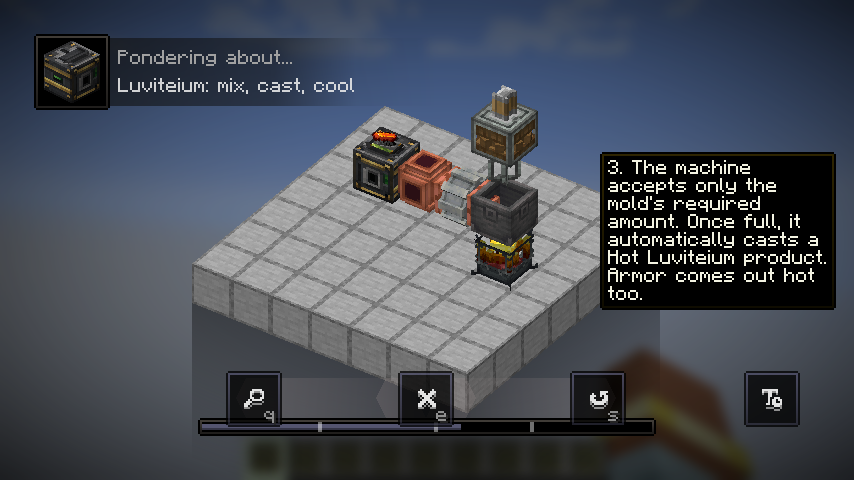
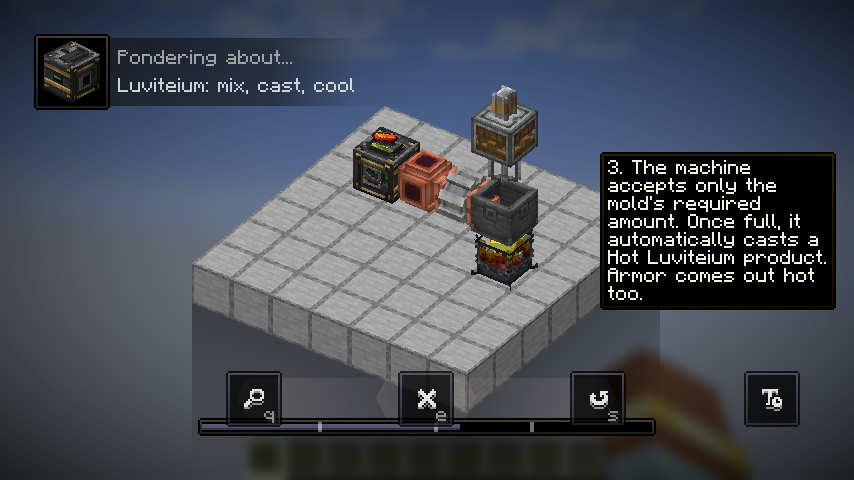
feat: refresh armor palette and display installed casting molds

diff --git a/tools/art/prepare_armor.py b/tools/art/prepare_armor.py
@@ -1,0 +1,80 @@
+#!/usr/bin/env python3
+"""Resample imagegen colors onto the original armor UV/alpha; requires Pillow.
+
+No pixels or UV islands are drawn. Generated boundary drift is handled by sampling
+the nearest opaque source pixel. Original runtime coverage is the authoritative
+mask; generated transparent padding cannot punch holes in an armor surface.
+"""
+from pathlib import Path
+import json
+import hashlib
+
+from PIL import Image
+
+ROOT = Path(__file__).resolve().parents[2]
+ART = ROOT / 'art/armor-refresh'
+DEST = ROOT / 'src/main/resources/assets/luviteium/textures/models/armor'
+
+
+def sha256(path):
+    return hashlib.sha256(path.read_bytes()).hexdigest()
+
+
+def prepare(layer):
+    original_path = ART / f'input-layer-{layer}.png'
+    source_path = ART / f'layer-{layer}-source.png'
+    original = Image.open(original_path).convert('RGBA')
+    source = Image.open(source_path).convert('RGBA')
+    assert original.size == (64, 32)
+    assert source.width == 2 * source.height
+    result = source.resize(original.size, Image.Resampling.NEAREST)
+    mask = original.getchannel('A')
+    assert set(mask.get_flattened_data()) == {0, 255}, 'Expected binary source alpha'
+    sampled = result.load()
+    source_pixels = source.load()
+    corrected = 0
+    max_distance = 0.0
+    # Nearest-color edge extension is deliberately limited to one logical pixel.
+    limit = int(source.width / 64) + 1
+    for y in range(32):
+        for x in range(64):
+            if mask.getpixel((x, y)) == 0:
+                sampled[x, y] = (0, 0, 0, 0)
+                continue
+            r, g, b, a = sampled[x, y]
+            if a < 240 or b > max(r, g):
+                cx = min(source.width - 1, int((x + .5) * source.width / 64))
+                cy = min(source.height - 1, int((y + .5) * source.height / 32))
+                candidates = []
+                for sy in range(max(0, cy-limit), min(source.height, cy+limit+1)):
+                    for sx in range(max(0, cx-limit), min(source.width, cx+limit+1)):
+                        rgba = source_pixels[sx, sy]
+                        # Ignore occasional blue/cyan generator fringe pixels.
+                        if rgba[3] >= 240 and rgba[2] <= max(rgba[0], rgba[1]):
+                            candidates.append(((sx-cx)**2 + (sy-cy)**2, sx, sy))
+                if not candidates:
+                    raise ValueError(f'Layer {layer}: missing generated color at UV {(x,y)}')
+                distance, sx, sy = min(candidates)
+                max_distance = max(max_distance, distance ** .5 / (source.width / 64))
+                assert max_distance <= 1.5, 'Generated UV drift exceeds local edge extension'
+                sampled[x, y] = source_pixels[sx, sy]
+                corrected += 1
+    result.putalpha(mask)
+    assert result.getchannel('A').tobytes() == mask.tobytes()
+    visible = [rgba for rgba in result.get_flattened_data() if rgba[3]]
+    assert all(max(r,g,b) > 20 for r,g,b,a in visible), 'Unexpected black surface'
+    assert all(b <= max(r,g) for r,g,b,a in visible), 'Unexpected blue accent'
+    path = DEST / f'luviteium_layer_{layer}.png'
+    result.save(path)
+    result.resize((1024,512), Image.Resampling.NEAREST).save(ART / f'preview-layer-{layer}.png')
+    return dict(layer=layer, source_size=list(source.size), runtime_size=list(result.size),
+                visible_pixels=len(visible), alpha_identical=True,
+                edge_samples_corrected=corrected, max_edge_distance_in_uv_pixels=round(max_distance,3),
+                input_sha256=sha256(original_path), source_sha256=sha256(source_path),
+                runtime_sha256=sha256(path))
+
+
+if __name__ == '__main__':
+    report = [prepare(n) for n in (1,2)]
+    (ART / 'validation.json').write_text(json.dumps(report, indent=2) + '\n')
+    print(json.dumps(report, indent=2))

diff --git a/src/main/java/com/create/luviteium/client/CastingTableRenderer.java b/src/main/java/com/create/luviteium/client/CastingTableRenderer.java
@@ -9,6 +9,7 @@ import net.createmod.catnip.platform.NeoForgeCatnipServices;
 import net.minecraft.client.Minecraft;
 import net.minecraft.client.renderer.MultiBufferSource;
 import net.minecraft.client.renderer.blockentity.BlockEntityRendererProvider;
+import net.minecraft.core.Direction;
 import net.minecraft.world.item.ItemDisplayContext;
 import net.minecraft.world.item.ItemStack;
 import net.neoforged.neoforge.fluids.FluidStack;
@@ -26,6 +27,7 @@ public final class CastingTableRenderer extends SafeBlockEntityRenderer<CastingT
         pose.translate(shake, 0, 0);
         renderItem(table, table.getDisplayedMold(), 1.025f, 0.7f, pose, buffers, light, overlay);
         pose.popPose();
+        renderMoldIndicators(table, pose, buffers, light, overlay);
 
         float fill = table.getVisualFill(partialTicks);
         if (fill > 0.01f) {
@@ -36,6 +38,23 @@ public final class CastingTableRenderer extends SafeBlockEntityRenderer<CastingT
         }
         renderItem(table, table.getDisplayedOutput(), 1.10f + table.getEjectionLift(partialTicks),
                 0.6f, pose, buffers, light, overlay);
+    }
+
+    private static void renderMoldIndicators(CastingTableBlockEntity table, PoseStack pose,
+                                            MultiBufferSource buffers, int light, int overlay) {
+        ItemStack mold = table.getDisplayedMold();
+        if (mold.isEmpty()) return;
+        // The actual installed mold remains readable even when molten metal covers the bed.
+        // All four sides are labeled so pipes or adjacent machinery can obscure one side.
+        for (Direction side : Direction.Plane.HORIZONTAL) {
+            pose.pushPose();
+            pose.translate(0.5 + side.getStepX() * 0.52, 0.58, 0.5 + side.getStepZ() * 0.52);
+            pose.mulPose(Axis.YP.rotationDegrees(side.toYRot()));
+            pose.scale(0.62f, 0.62f, 0.18f);
+            Minecraft.getInstance().getItemRenderer().renderStatic(mold, ItemDisplayContext.FIXED,
+                    light, overlay, pose, buffers, table.getLevel(), 0);
+            pose.popPose();
+        }
     }
 
     private static void renderItem(CastingTableBlockEntity table, ItemStack stack, float height, float scale,

diff --git a/art/armor-refresh/README.md b/art/armor-refresh/README.md
@@ -1,0 +1,64 @@
+# Worn armor placeholder color refresh
+
+**All artwork here and both runtime armor layers remain placeholders.**
+
+This pass replaces the original flat olive color treatment with warm dark iron,
+subdued forest green and aged-brass accents. It preserves the existing vanilla
+64×32 armor UV coverage and changes only the two worn-layer PNGs.
+
+## Inputs and generation
+
+Original project-owned inputs are `input-layer-1.png` and `input-layer-2.png`.
+`reference-layer-1.png` and `reference-layer-2.png` are exact nearest-neighbor
+16× enlargements used as edit targets. Both original images and enlarged
+references were inspected before generation.
+
+The built-in **imagegen** tool was used in edit mode with
+`transparent_background: true`; no CLI/API fallback was used. Each generated
+image is 1774×887 despite the prompt requesting the reference's 1024×512 size.
+No vanilla/Create source images were downloaded for this pass.
+
+| Saved generated source | Exact prompt | References, in order | Disposition |
+| --- | --- | --- | --- |
+| `layer-1-source.png` | `layer-1-prompt.txt` | `reference-layer-1.png` | Accepted |
+| `layer-2-rejected-source.png` | `layer-2-prompt.txt` | `reference-layer-2.png`, `layer-1-source.png` | Rejected: copied layer-1 UV islands |
+| `layer-2-source.png` | `layer-2-retry-prompt.txt` | `reference-layer-2.png` | Accepted |
+
+Original tool output identifiers:
+
+- Layer 1: `exec-04e23a85-f0f4-4b06-b04c-0c41b8c04a2d.png`
+- Rejected layer 2: `exec-c7f276f6-0486-4cd7-bd1c-bb503fb57970.png`
+- Accepted layer 2: `exec-0fa7dcf4-ead2-4adf-a8e6-735e04d71a57.png`
+
+All generated sources are copied into this directory, so reproduction does not
+depend on machine-local output paths.
+
+## Preparation and verification
+
+Run `python3 tools/art/prepare_armor.py` from the repository root; requires Pillow.
+The script samples generated colors using nearest-neighbor resizing to 64×32.
+Where generated edges are slightly inset or contain blue fringe, it samples the
+nearest opaque, non-blue source pixel in a small neighborhood. It never invents
+colors, draws UV islands, or copies old olive colors into a missing region.
+Original alpha is then restored exactly, including every transparent hole.
+
+- Layer 1: 632 occupied pixels; 51 edge/fringe samples corrected. Maximum sampling
+  displacement is 0.613 of one runtime pixel.
+- Layer 2: 280 occupied pixels; no edge/fringe corrections needed.
+- Both: RGBA 64×32; original alpha bytes identical; no blue-dominant pixels or
+  opaque near-black fill introduced; no emissive resource or renderer changes.
+- `validation.json` records dimensions, coverage and SHA-256 of inputs, sources
+  and final runtime PNGs.
+- `preview-layer-1.png` and `preview-layer-2.png` are 16× nearest-neighbor
+  enlargements of the final files, inspected visually for palette and coverage.
+
+The script preserves UV boundaries/coverage, not the old exact RGB values or
+every old shading value. The generator supplied the new metal shading and trim.
+After the asset checks, all four armor pieces were inspected in the real client
+from four angles. See the [in-game preview](../../docs/images/armor-preview.png).
+The temporary development preview screen is not included in the release JAR.
+
+Runtime destinations:
+
+- `src/main/resources/assets/luviteium/textures/models/armor/luviteium_layer_1.png`
+- `src/main/resources/assets/luviteium/textures/models/armor/luviteium_layer_2.png`

diff --git a/docs/textures.md b/docs/textures.md
@@ -24,8 +24,37 @@ green accents. Cool Luviteium items are forest green; hot casts are orange.
   still references Create's own model and is unchanged by this art pass.
 - Ore, storage block and still/flowing molten metal also have new 16×16 PNGs.
   Molten color is in the PNGs; the fluid tint is now white to avoid double tinting.
-- Worn armor retains the existing placeholder 64×32 layer UV layout. It is not
-  a 16×16 inventory sprite and was not regenerated in this refresh.
+- Worn armor now uses warm gunmetal, muted forest-green panels and restrained
+  aged-brass accents. Both placeholder layers retain their existing 64×32 UV
+  layout and exact original alpha mask; they are not 16×16 inventory sprites.
+
+## Worn armor color refresh
+
+The two worn-armor PNGs were edited with the built-in **imagegen** tool. The first
+layer covers the helmet, chestplate and boots; the second covers leggings. No
+Java, armor geometry, item icons or runtime tint was changed by this pass.
+The textures remain **placeholder artwork**, including the worn armor.
+
+Original inputs, enlarged references, generated sources, exact prompts, inspected
+1024×512 nearest-neighbor previews and a machine-readable validation report are
+kept in [`art/armor-refresh/`](../art/armor-refresh/README.md), outside runtime
+resources. The layer-2 retry is the accepted source; its first attempt was rejected
+because it copied the wrong UV islands from the style reference.
+
+```sh
+python3 tools/art/prepare_armor.py
+```
+
+Requires Pillow. This script resizes generated colors, extends nearby opaque
+source colors across minor generated edge drift, rejects blue fringe samples,
+and restores the original alpha mask byte-for-byte. It does not draw replacement
+armor surfaces. The resulting PNGs are both RGBA 64×32 with binary alpha and
+exactly 632 / 280 occupied pixels respectively. Both enlarged UV previews were
+visually inspected. A subsequent real-client check rendered the full set on an
+armor stand from the front, back and both oblique angles. The inspected
+[in-game preview](images/armor-preview.png) shows the standard Minecraft armor
+renderer, with no missing-texture surfaces. The temporary preview screen was
+removed before the release build; the normal Ponder test remains unchanged.
 
 ## Source and reproducibility
 

diff --git a/README.md b/README.md
@@ -19,7 +19,7 @@ and will be replaced. Recipes, balance and visuals may change as development con
   set, pressed panels and a storage block.
 - **Mold-based casting:** ten reusable molds for ingots, tool heads, a sword
   blade and armor pieces. The Casting Machine accepts exactly the molten metal
-  required by its mold.
+  required by its mold, with the installed mold displayed on its sides.
 - **Create automation:** heated mixing, fluid pipes, Deployer mold imprinting,
   fan cooling and mechanical pressing form one production chain.
 - **Biomass power:** a fuel-burning generator supplies **64 RPM / 512 SU** and
@@ -27,6 +27,15 @@ and will be replaced. Recipes, balance and visuals may change as development con
 - **Working machine animations:** visible molds and molten fill, a short product
   ejection animation, rotating generator drive wheels and combustion smoke.
 - **In-game guidance:** three Ponder tutorials, with English and Turkish text.
+
+<details>
+<summary>Armor preview (placeholder artwork)</summary>
+
+![Luviteium armor on armor stands, shown from four angles in Minecraft](docs/images/armor-preview.png)
+
+The current armor palette uses dark metal, aged brass and muted green accents.
+
+</details>
 
 ## Requirements and installation
 

diff --git a/docs/animations.md b/docs/animations.md
@@ -6,6 +6,11 @@ processing and kinetic systems without changing costs, recipes or timing.
 ## Casting Machine
 
 - The inserted mold is visible on the upper casting bed.
+- The actual installed mold also appears as a small plate on all four vertical
+  faces, identifying the selected shape even while molten metal covers the bed.
+  Changing or removing the mold updates these plates through the same inventory
+  synchronization. Empty machines have no mold plate; the markers are visual only
+  and do not alter pipe or item connections.
 - Molten metal gradually spreads across the mold as fluid arrives. Client-side
   interpolation smooths updates instead of changing the actual fluid quantity.
 - While casting can advance, the mold has a small vibration and sparse smoke.
